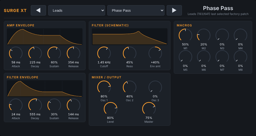
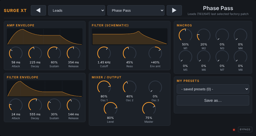
modgui: Save as... dialog (prefilled with current patch name) and saved presets list
Claude-Session: https://claude.ai/code/session_01A7W9XgA1V9sguPkxPVV5Pr

diff --git a/resources/modgui/surge-xt/javascript-surge-xt.js b/resources/modgui/surge-xt/javascript-surge-xt.js
@@ -120,7 +120,13 @@ function (event, funcs) {
             '</div>' +
             '<div class="sx-col" style="flex:1">' +
               '<div class="sx-card"><h4>Macros</h4><div class="sx-row" data-k="m0,m1,m2,m3"></div><div class="sx-row" data-k="m4,m5,m6,m7"></div></div>' +
-            '</div></div>';
+              '<div class="sx-card"><h4>My presets</h4><select class="sx-mine"></select>' +
+                '<div class="sx-btnrow"><button class="sx-saveas">Save as&hellip;</button></div><div class="sx-status"></div></div>' +
+            '</div></div>' +
+            '<div class="sx-modal" hidden><div class="sx-dialog"><div class="sx-dlg-title">Save preset as</div>' +
+              '<input class="sx-name-in" type="text" maxlength="60" spellcheck="false">' +
+              '<div class="sx-hint"></div>' +
+              '<div class="sx-dlg-btns"><button class="sx-cancel">Cancel</button><button class="sx-ok">Save</button></div></div></div>';
         root.innerHTML = h;
         d.root = root; d.knobs = {};
         $(root).find('.sx-row').each(function () {
@@ -157,9 +163,131 @@ function (event, funcs) {
         $pat.on('change', function () { choose(d, parseInt($pat.val(), 10)); });
         $(root).find('.sx-prev').on('click', function () { choose(d, (d.patchIdx - 1 + PATCHES.length) % PATCHES.length); });
         $(root).find('.sx-next').on('click', function () { choose(d, (d.patchIdx + 1) % PATCHES.length); });
+        wirePresets(d);
         Object.keys(d.knobs).forEach(function (key) { setKnob(d, d.knobs[key], d.knobs[key].v, false); });
         showPatch(d);
         redrawGraphs(d);
+    }
+
+    // ---- saved presets (MOD's own preset system: saves the complete Surge state) ----
+    function readSavedPresets(d, settings) {
+        var list = [];
+        try {
+            settings.find('.mod-preset-user [mod-role=enumeration-option]').each(function () {
+                var el = $(this), uri = el.attr('mod-uri');
+                if (uri) list.push({ uri: uri, path: el.attr('mod-path') || '', name: $.trim(el.text()) });
+            });
+        } catch (e) { }
+        return list;
+    }
+
+    function status(d, msg) {
+        var el = d.root.querySelector('.sx-status');
+        el.textContent = msg;
+        clearTimeout(d.statusTimer);
+        d.statusTimer = setTimeout(function () { el.textContent = ''; }, 4000);
+    }
+
+    function refreshMine(d, selectUri) {
+        var sel = $(d.root).find('.sx-mine'), html = '<option value="">- saved presets (' + d.mine.length + ') -</option>';
+        d.mine.forEach(function (m) {
+            html += '<option value="' + $('<div>').text(m.uri).html().replace(/"/g, '&quot;') + '">' + $('<div>').text(m.name).html() + '</option>';
+        });
+        sel.html(html);
+        sel.val(selectUri || '');
+    }
+
+    function refreshAll(d) {
+        // ask the host for every value again, e.g. after a preset or patch was loaded
+        [350, 1200].forEach(function (ms) {
+            setTimeout(function () {
+                Object.keys(d.knobs).forEach(function (k) { funcs.patch_get(d.knobs[k].uri); });
+            }, ms);
+        });
+    }
+
+    function currentName(d) {
+        if (d.userName) return d.userName;
+        var p = PATCHES[d.patchIdx];
+        return p ? p[1] : 'Surge XT';
+    }
+
+    function openSaveDialog(d) {
+        var modal = d.root.querySelector('.sx-modal'), input = modal.querySelector('.sx-name-in');
+        input.value = currentName(d);
+        updateHint(d);
+        modal.hidden = false;
+        input.focus();
+        input.select();
+    }
+
+    function updateHint(d) {
+        var modal = d.root.querySelector('.sx-modal'), name = $.trim(modal.querySelector('.sx-name-in').value);
+        var exists = d.mine.some(function (m) { return m.name === name; });
+        modal.querySelector('.sx-hint').textContent = !name ? 'Give the preset a name' :
+            (exists ? 'A preset with this name exists - it will be replaced' : '');
+        modal.querySelector('.sx-ok').disabled = !name;
+    }
+
+    function doSave(d) {
+        var modal = d.root.querySelector('.sx-modal'), name = $.trim(modal.querySelector('.sx-name-in').value);
+        if (!name) return;
+        modal.hidden = true;
+        var existing = null;
+        d.mine.forEach(function (m) { if (m.name === name && m.path) existing = m; });
+        var url, data;
+        if (existing) {
+            url = '/effect/preset/save_replace/' + d.instance;
+            data = { uri: existing.uri, bundle: existing.path, name: name };
+        } else {
+            url = '/effect/preset/save_new/' + d.instance;
+            data = { name: name };
+        }
+        $.ajax({
+            url: url, data: data, dataType: 'json', cache: false,
+            success: function (resp) {
+                if (!resp || !resp.ok) { status(d, 'Saving failed'); return; }
+                if (existing) { existing.uri = resp.uri; existing.path = resp.bundle; }
+                else { existing = { uri: resp.uri, path: resp.bundle, name: name }; d.mine.push(existing); }
+                d.userName = name;
+                refreshMine(d, existing.uri);
+                showPatch(d);
+                status(d, 'Saved "' + name + '"');
+            },
+            error: function () { status(d, 'Saving failed'); }
+        });
+    }
+
+    function loadSaved(d, uri) {
+        var item = null;
+        d.mine.forEach(function (m) { if (m.uri === uri) item = m; });
+        if (!item) return;
+        $.ajax({
+            url: '/effect/preset/load/' + d.instance, data: { uri: uri }, dataType: 'json', cache: false,
+            success: function () {
+                d.userName = item.name;
+                showPatch(d);
+                status(d, 'Loaded "' + item.name + '"');
+                refreshAll(d);
+            },
+            error: function () { status(d, 'Loading failed'); }
+        });
+    }
+
+    function wirePresets(d) {
+        var $r = $(d.root);
+        refreshMine(d, '');
+        $r.find('.sx-saveas').on('click', function () { openSaveDialog(d); });
+        $r.find('.sx-mine').on('change', function () { var v = $(this).val(); if (v) loadSaved(d, v); });
+        $r.find('.sx-cancel').on('click', function () { d.root.querySelector('.sx-modal').hidden = true; });
+        $r.find('.sx-ok').on('click', function () { doSave(d); });
+        $r.find('.sx-name-in').on('input', function () { updateHint(d); })
+            .on('keydown', function (e) {
+                e.stopPropagation();
+                if (e.key === 'Enter') { doSave(d); }
+                else if (e.key === 'Escape') { d.root.querySelector('.sx-modal').hidden = true; }
+            })
+            .on('keyup keypress', function (e) { e.stopPropagation(); });
     }
 
     function setKnob(d, k, v, send) {
@@ -176,12 +304,19 @@ function (event, funcs) {
         var v = PATCHES.length > 1 ? idx / (PATCHES.length - 1) : 0;
         d.values[PATCH_PARAM] = v;
         funcs.patch_set(PATCH_PARAM, 'f', v);
+        d.userName = null;
         showPatch(d);
+        refreshAll(d);
     }
 
     function showPatch(d) {
         var root = d.root;
         if (!root) return;
+        if (d.userName) {
+            root.querySelector('.sx-name').textContent = d.userName;
+            root.querySelector('.sx-sub').textContent = 'My preset';
+            return;
+        }
         var p = PATCHES[d.patchIdx];
         if (!p) { root.querySelector('.sx-name').textContent = 'Surge XT'; return; }
         root.querySelector('.sx-name').textContent = p[1];
@@ -201,7 +336,9 @@ function (event, funcs) {
 
     var d = event.data;
     if (event.type === 'start') {
-        d.icon = event.icon; d.pending = {}; d.timer = null; d.values = {}; d.patchIdx = 0;
+        d.icon = event.icon; d.pending = {}; d.timer = null; d.values = {}; d.patchIdx = 0; d.userName = null;
+        d.instance = event.icon.attr('mod-instance') || '';
+        d.mine = readSavedPresets(d, event.settings);
         (event.parameters || []).forEach(function (p) { d.values[p.uri] = p.value; });
         if (d.values[PATCH_PARAM] !== undefined && PATCHES.length > 1) {
             d.patchIdx = Math.round(d.values[PATCH_PARAM] * (PATCHES.length - 1));

diff --git a/resources/modgui/surge-xt/stylesheet-surge-xt.css b/resources/modgui/surge-xt/stylesheet-surge-xt.css
@@ -26,3 +26,17 @@
 .surgext .sx-knob canvas { width: 52px; height: 52px; display: block; margin: 0 auto; }
 .surgext .sx-knob .sx-label { font-size: 10px; color: #9aa4b2; margin-top: 1px; }
 .surgext .sx-knob .sx-val { font-size: 11px; color: #e9edf3; font-variant-numeric: tabular-nums; }
+
+.surgext .sx-card select.sx-mine { width: 100%; max-width: none; height: 34px; margin: 2px 0 6px 0; }
+.surgext .sx-btnrow { display: flex; gap: 6px; }
+.surgext .sx-btnrow button { flex: 1; font-size: 14px; }
+.surgext .sx-status { font-size: 11px; color: #ff9f2e; min-height: 14px; margin-top: 6px; }
+.surgext .sx-modal { position: absolute; inset: 0; background: rgba(0,0,0,.6); display: flex; align-items: center; justify-content: center; z-index: 50; pointer-events: auto; }
+.surgext .sx-modal[hidden] { display: none; }
+.surgext .sx-dialog { background: #1c2128; border: 1px solid #ff9f2e; border-radius: 8px; padding: 16px 18px; width: 380px; }
+.surgext .sx-dlg-title { font-size: 14px; letter-spacing: .08em; text-transform: uppercase; color: #ff9f2e; margin-bottom: 10px; }
+.surgext .sx-name-in { width: 100%; box-sizing: border-box; height: 40px; background: #11151a; color: #e9edf3; border: 1px solid #353d48; border-radius: 4px; font-size: 16px; padding: 0 10px; }
+.surgext .sx-hint { min-height: 16px; margin: 6px 0 10px; font-size: 11px; color: #ff9f2e; }
+.surgext .sx-dlg-btns { display: flex; justify-content: flex-end; gap: 8px; }
+.surgext .sx-dlg-btns button { font-size: 14px; min-width: 90px; }
+.surgext .sx-dlg-btns button:disabled { opacity: .4; }
